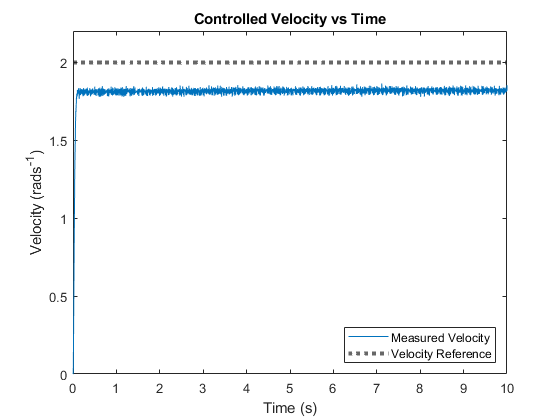
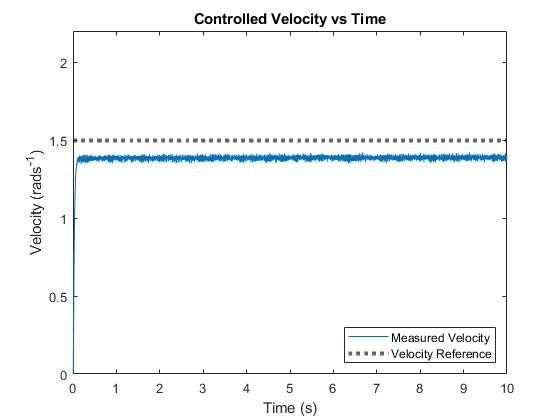
figure generation for final report

Changed region(s): [[0.1214, 0.3095, 0.9107, 0.4952], [0.1214, 0.1857, 0.9107, 0.2786], [0.1214, 0.1238, 0.9107, 0.1548]]

diff --git a/matlab/current_testing/batchfigure.m b/matlab/current_testing/batchfigure.m
@@ -1,0 +1,126 @@
+[names, count] = get_files('batch0309');
+
+steady_state_currents = zeros(1, count);
+steady_state_velocities = zeros(1, count);
+first_accels = zeros(1, count);
+
+for i=1:count
+    [times, currents, velocities, ~] = read_data(names(i));
+
+    steady_state_index = floor(numel(times) / 2);
+
+    steady_state_currents(i) = mean(currents(steady_state_index:end));
+    steady_state_velocities(i) = mean(velocities(steady_state_index:end));
+
+    FIRST_COUNT = 20;
+    first_velocities = velocities(1:FIRST_COUNT, 1);
+    first_times = times(1:FIRST_COUNT, 1);
+    accels = zeros(1, FIRST_COUNT);
+    for j = 1:(FIRST_COUNT-1)
+        v_diff = first_velocities(j + 1) - first_velocities(j);
+        t_diff = first_times(j + 1) - first_times(j);
+        accels(j) = v_diff/t_diff;
+    end
+    first_accels(i) = mean(accels);
+end
+
+figure
+plot(steady_state_currents, steady_state_velocities)
+title("Steady State Analysis")
+ylabel("Steady State Velocity (rads^{-1})")
+xlabel("Steady State Current (A)")
+% 
+%assumption
+Kt = 0.124 * 120;
+F_kinetic = 8.1003;
+F_static = 10.4160;
+
+START_INDEX = 18;
+END_INDEX = 55;
+
+moving_currents = steady_state_currents(START_INDEX:END_INDEX);
+moving_velocities = steady_state_velocities(START_INDEX:END_INDEX);
+moving_accelerations = first_accels(START_INDEX:END_INDEX);
+
+expected_torques = Kt * moving_currents - F_kinetic;
+
+% J_t*a_i = tau_i
+J_t_measurements = expected_torques ./ moving_accelerations;
+J_t = mean(J_t_measurements);
+fprintf("J_t = %.4f\n", J_t);
+
+figure
+plot(moving_currents, J_t_measurements)
+hold on
+yline(J_t, "LineWidth", 1, "LineStyle", ":")
+xlabel("Current (A)")
+ylabel("Rotational Moment of Inertia (kgm^2)")
+title("Rotational Inertia vs Current")
+legend("Measured Values", "Average Value", "Location", "northeast")
+
+
+
+
+b_predictions = expected_torques ./ moving_velocities;
+
+% figure
+% plot(moving_currents, b_predictions)
+% title("Observed Current vs Predicted Damping Coefficient")
+% ylabel("Damping Coefficient")
+% xlabel("Current (A)")
+
+%looks like b is a function of i, such that b(i) = b_2*i + b_1
+pb = polyfit(moving_currents, b_predictions, 1);
+b_2 = pb(1);
+b_1 = pb(2);
+fprintf("b(i) = %.4f*i + %.4f\n", b_2, b_1);
+
+
+
+sim_currents = moving_currents(1):0.01:moving_currents(end);
+sim_b = b_2 * sim_currents + b_1;
+
+figure
+plot(moving_currents, b_predictions)
+hold on
+plot(sim_currents, sim_b)
+xlabel("Steady State Current (A)")
+ylabel("Damping Coefficient (Ns)")
+legend("Measured Relationship", "Line of Best Fit", "Location", "northeast")
+title("Damping Coefficient vs Steady State Current")
+
+% figure
+% plot(moving_currents, b_predictions)
+% hold on
+% plot(sim_currents, sim_b)   
+% title("Current vs Predicted Damping Coefficient")
+% ylabel("Damping Coefficient")
+% xlabel("Current (A)")
+% legend("Observed Results", "Line of Best Fit")
+
+expected_velocities = zeros(1, numel(steady_state_currents));
+for i = 1:numel(steady_state_currents)
+    motor_torque = Kt*steady_state_currents(i);
+    b = b_2 * steady_state_currents(i) + b_1;
+    if motor_torque > F_static
+        expected_velocities(i) = (motor_torque - F_kinetic)/b;
+    end
+end
+
+figure
+plot(steady_state_currents, steady_state_velocities)
+hold on
+plot(steady_state_currents, expected_velocities)
+title("Steady State Value Comparison")
+xlabel("Steady State Current (A)")
+ylabel("Steady State Velocity (rads^{-1})")
+legend("Measured Relationship", "Modelled Relationship", "Location", "southeast")
+
+% figure
+% plot(sim_currents, expected_velocities)
+% hold on
+% plot(steady_state_currents, steady_state_velocities)
+% title("Current vs Velocity")
+% ylabel("Velocity (rad/s)")
+% xlabel("Current (A)")
+% legend("Observed Results", "Modelled Results")

diff --git a/matlab/chirp/bode_comparison.m b/matlab/chirp/bode_comparison.m
@@ -6,7 +6,7 @@ Kt_b = 0.124 * 120 / estimated_b
 J_b = 9.1617 / estimated_b
 
 sys = tf(Kt_b, [J_b 1]);
-[omega_sim, m_sim, theta_sim] = bode_from_chirp(out.current.Time, out.current.Data', out.velocity.Data');
+% [omega_sim, m_sim, theta_sim] = bode_from_chirp(out.current.Time, out.current.Data', out.velocity.Data');
 
 [times, currents, velocities, positions] = read_data("./data/chirp0to25at2.5A.csv");
 [omega, m, theta] = bode_from_chirp(times, currents', velocities');
@@ -15,24 +15,26 @@ sys = tf(Kt_b, [J_b 1]);
 [sysM, sysTheta] = bode(sys, omega);
 sysM = 20*log10(reshape(sysM(1,1, :), [], 1)');
 
-figure
+
+tiledlayout(2, 1, "TileSpacing", "compact", "Padding", "compact");
+
+nexttile
 semilogx(omega, m)
 hold on
 semilogx(omega, sysM)
-semilogx(omega_sim, m_sim)
-legend("Measured Data", "Expected First Order System", "Simulated System", "Location", "southwest")
+% semilogx(omega_sim, m_sim)
+legend("Measured Data", "Expected First Order System", "Location", "southwest")
 title("Magnitude Plot")
-xlabel("Frequency (rads^-1)")
 ylabel("Magnitude (db)")
 xlim([0 100])
 
-figure
+nexttile
 semilogx(omega, theta);
 hold on
 semilogx(omega, reshape(sysTheta(1,1, :), [], 1)')
-semilogx(omega_sim, theta_sim)
-legend("Measured Data", "Expected First Order System", "Simulated System", "Location", "southwest")
-title("Phase Plot vs Frequency")
+% semilogx(omega_sim, theta_sim)
+legend("Measured Data", "Expected First Order System", "Location", "southwest")
+title("Phase Plot")
 xlabel("Frequency (rads^-1)")
 ylabel("Phase (degrees)")
 xlim([0 100])

diff --git a/matlab/visualisation/velposcomparison.m b/matlab/visualisation/velposcomparison.m
@@ -1,0 +1,43 @@
+close all
+[times, currents, velocities, positions] = read_data("./knee.csv");
+[times_2, currents_2, velocities_2, positions_2] = read_data("./kneereal.csv");
+
+reference = readmatrix('kneetraj.csv');
+ref_times = reference(:, 1);
+ref_velocities = reference(:, 2);
+ref_pos = reference(:, 3);
+
+% knee
+t2 = 10.363;
+t1 = 0.997;
+
+diff = t2 - t1;
+adjust_times = times - diff;
+
+fig = figure;
+fig.Position = [50, 50, 900, 500];
+
+
+
+t = tiledlayout(2, 1, "TileSpacing","compact", "Padding","compact");
+title(t, "Measured Trajectory")
+
+nexttile
+hold on
+plot(ref_times, ref_velocities, "LineWidth", 2, "LineStyle", '- -', "Color", "r")
+% plot(adjust_times, velocities, "Color", "#4DBEEE")
+plot(times_2, velocities_2, "Color", "#7E2F8E")
+xlim([0 35])
+ylabel("Velocity (rads^{-1})")
+legend("Reference", "Measured")
+
+nexttile
+hold on
+plot(ref_times, ref_pos, "LineWidth", 2, "LineStyle", '- -', "Color", "r")
+% plot(adjust_times, positions, "Color", "#4DBEEE")
+plot(times_2, positions_2, "Color", "#7E2F8E")
+legend("Reference", "Measured")
+
+xlim([0 40])
+ylabel("Position (rad)")
+xlabel("Time (s)")

diff --git a/matlab/visualisation/currentcomparison.m b/matlab/visualisation/currentcomparison.m
@@ -1,0 +1,27 @@
+close all
+[times, currents, velocities, positions] = read_data("./knee.csv");
+[times_2, currents_2, velocities_2, positions_2] = read_data("./kneereal.csv");
+
+reference = readmatrix('kneetraj.csv');
+ref_times = reference(:, 1);
+ref_velocities = reference(:, 2);
+ref_pos = reference(:, 3);
+
+% knee
+t2 = 10.363;
+t1 = 0.997;
+
+diff = t2 - t1;
+adjust_times = times - diff;
+
+fig = figure;
+fig.Position = [50, 50, 900, 400];
+
+plot(adjust_times, currents)
+hold on
+plot(times_2, currents_2)
+xlim([0, 40])
+xlabel("Time (s)")
+ylabel("Current (A)")
+legend("Simulated", "Measured", "Location", "southeast")
+title("Comparison of Predicted Current vs Measured Current")

diff --git a/matlab/velocity_testing/velcontrol.m b/matlab/velocity_testing/velcontrol.m
@@ -1,4 +1,4 @@
-step = "./noi/vel2.csv";
+step = "./noi/vel1.5.csv";
 
 data = readmatrix(step);
 
@@ -7,7 +7,7 @@ velocities = data(:, 3);
 
 figure
 plot(times, velocities)
-yline(2, "LineWidth", 3, "LineStyle", ":")
+yline(1.5, "LineWidth", 3, "LineStyle", ":")
 ylim([0 2.2])
 xlim([0 10])
 

diff --git a/matlab/current_testing/plot_simultaneous_steps.m b/matlab/current_testing/plot_simultaneous_steps.m
@@ -18,6 +18,9 @@ end
 dcm = datacursormode(gcf);
 set(dcm, 'UpdateFcn', @myUpdateFcn);
 
+title("Batch Results")
+ylabel("Measured Velocity (rads^{-1})")
+xlabel("Time (s)")
 
 
 % Custom update function to display plot name

diff --git a/matlab/current_testing/batch_steady_states.m b/matlab/current_testing/batch_steady_states.m
@@ -1,4 +1,4 @@
-names = ["batch1", "batch2", "batch3", "batch4", "batch5", "batch6", "batch0309", "batch2808", "exo1", "exo2"];
+names = ["exo2"];
 
 fig = figure;
 hold on
